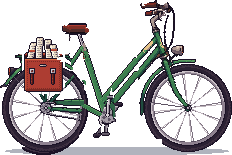
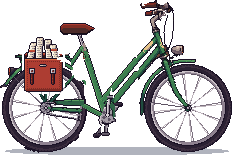
art(ui): sadel lebih panjang, kabel 1 px, ban bulat
Penilaian pemilik atas sepeda bengkel: sadel digambar utuh dengan hidung
6 px lebih panjang; kabel rem ditipiskan jadi 1 px supaya di versi kecil
tidak menggumpal; roda belakang digambar dari lingkaran terukur (bukan
elips yang menghasilkan cincin ganda di bawah), dan kiri bawah ban depan
yang ikut terhapus bersama sepatu diisi pantulan sisi kanannya.

Claude-Session: https://claude.ai/code/session_014pKAHN68ypreAvo6djoDqb

diff --git a/docs/design/redesain/kanvas/Bengkel_TataA.dc.html b/docs/design/redesain/kanvas/Bengkel_TataA.dc.html
@@ -39,7 +39,7 @@ body{margin:0}
 <section class="pnl layar ab" aria-label="Sepeda" style="left: 220px; top: 62px; width: 200px; height: 232px; padding: 4px">
 <div style="position: relative; height: 100%; overflow: hidden; background: #2A1E17; box-shadow: 0 0 0 1px #0E0A1C">
 <img src="/_blob/7cb89d9a8ad08057e730fa7585a0ad93" alt="" style="position: absolute; left: -84px; bottom: 0">
-<img src="/_blob/0351d78ef85ba2fd0e7d4b9da4e2e00c" alt="Sepeda loper" style="position: absolute; left: 34px; top: 132px">
+<img src="/_blob/6f2f3584f2de132d48054a6fcf5c2150" alt="Sepeda loper" style="position: absolute; left: 34px; top: 132px">
 <i style="position: absolute; left: 38px; top: 199px; width: 3px; height: 3px; background: #FF8A3D; box-shadow: 0 0 0 1px #0E0A1C"></i>
 <span class="chip kecil warn" style="position: absolute; left: 4px; top: 186px">! Ban</span>
 <i style="position: absolute; left: 107px; top: 136px; width: 3px; height: 3px; background: #FF8A3D; box-shadow: 0 0 0 1px #0E0A1C"></i>

diff --git a/docs/design/redesain/kanvas/Bengkel_TataB.dc.html b/docs/design/redesain/kanvas/Bengkel_TataB.dc.html
@@ -22,7 +22,7 @@ body{margin:0}
 <section class="pnl layar ab" aria-label="Sepeda" style="left: 12px; top: 46px; width: 280px; height: 170px; padding: 4px">
 <div style="position: relative; height: 100%; overflow: hidden; background: #2A1E17; box-shadow: 0 0 0 1px #0E0A1C">
 <img src="/_blob/7cb89d9a8ad08057e730fa7585a0ad93" alt="" style="position: absolute; left: -48px; bottom: 0">
-<img src="/_blob/0351d78ef85ba2fd0e7d4b9da4e2e00c" alt="Sepeda loper" style="position: absolute; left: 74px; top: 70px">
+<img src="/_blob/6f2f3584f2de132d48054a6fcf5c2150" alt="Sepeda loper" style="position: absolute; left: 74px; top: 70px">
 <i style="position: absolute; left: 78px; top: 137px; width: 3px; height: 3px; background: #FF8A3D; box-shadow: 0 0 0 1px #0E0A1C"></i>
 <span class="chip kecil warn" style="position: absolute; left: 42px; top: 130px">! Ban</span>
 <i style="position: absolute; left: 147px; top: 74px; width: 3px; height: 3px; background: #FF8A3D; box-shadow: 0 0 0 1px #0E0A1C"></i>

diff --git a/docs/design/redesain/kanvas/Bengkel.dc.html b/docs/design/redesain/kanvas/Bengkel.dc.html
@@ -27,7 +27,7 @@ body{margin:0}
 <div class="bag lbl" style="height: 12px">Servis</div>
 <div style="position: relative; height: {{sh}}px; overflow: hidden; background: #2A1E17; box-shadow: 0 0 0 1px #0E0A1C">
 <img src="/_blob/7cb89d9a8ad08057e730fa7585a0ad93" alt="" style="position: absolute; left: {{papanX}}px; bottom: 0">
-<img src="/_blob/0351d78ef85ba2fd0e7d4b9da4e2e00c" alt="Sepeda loper" style="position: absolute; left: {{bx}}px; top: {{by}}px">
+<img src="/_blob/6f2f3584f2de132d48054a6fcf5c2150" alt="Sepeda loper" style="position: absolute; left: {{bx}}px; top: {{by}}px">
 <sc-for list="{{penanda}}" as="m" hint-placeholder-count="2">
 <i style="position: absolute; left: {{m.dx}}px; top: {{m.dy}}px; width: 3px; height: 3px; background: {{m.warna}}; box-shadow: 0 0 0 1px #0E0A1C"></i>
 <span class="chip kecil {{m.cls}}" style="position: absolute; left: {{m.cx}}px; top: {{m.cy}}px">{{m.teks}}</span>

diff --git a/tools/ui_art/redesain/sepeda_fullbody.py b/tools/ui_art/redesain/sepeda_fullbody.py
@@ -6,10 +6,11 @@ sama dengan papan "Gambar AI baru jadi pixel art · versi 5" di kanvas "Karakter
 Langkah:
   1. tokoh dibuang: semua di atas y 108 (kepala, lengan, koran), warna kulit/kemeja/celana di kolom badan beserta
      garis luarnya yang gelap, sepatu, gantungan kunci, dan bayangan tanah lama
-  2. bagian sepeda yang tadinya tertutup tokoh digambar ulang HANYA di piksel yang dibuang (piksel asli tidak diubah):
-     sisi kanan roda belakang (profil radial dari bagian roda yang terlihat, jari-jari tiap 30 derajat), batang
+  2. bagian sepeda yang tadinya tertutup tokoh digambar ulang HANYA di piksel yang dibuang (piksel asli tidak diubah, kecuali sadel dan kabel di langkah 3):
+     sisi kanan roda belakang (profil radial yang diukur dari ban yang terlihat, lingkaran, jari-jari tiap 30 derajat), batang
      bawah (chainstay), seat stay, seat tube, dua pipa rangka step-through yang menerus dari potongan di kanan,
-     tiang dan sadel, gir depan, engkol dan pedal dua sisi; lalu garis luar #1B1226 di tepi bagian baru
+     tiang sadel, gir depan, engkol dan pedal dua sisi, kiri bawah roda depan (pantulan sisi kanan); lalu garis luar
+     #1B1226 di tepi bagian baru. Sadel digambar utuh dengan hidung lebih panjang, kabel rem ditipiskan jadi 1 px
   3. sisa piksel lepas dibuang, bayangan tanah baru (#2E3550 alpha 96, seperti gambar full body) di bawah roda
   4. dipotong ke kotak sepeda -> sepeda_besar.png (kepadatan gambar skala besar), lalu versi setengah
      sepeda_kecil.png (mode per blok 2x2, garis luar dirapikan) untuk panggung bengkel
@@ -44,7 +45,9 @@ KULIT = [(239, 164, 98), (220, 118, 69), (199, 103, 61), (218, 114, 68), (240, 1
 KEMEJA = [(132, 166, 186), (110, 138, 170), (101, 121, 158), (127, 158, 182), (109, 134, 167)]
 CELANA = [(44, 48, 79), (58, 66, 94), (84, 96, 142), (36, 34, 61), (35, 34, 63), (51, 57, 89), (83, 95, 141), (87, 99, 144)]
 
-RODA_BELAKANG = (46, 219, 41.5, 44)      # cx, cy, rx, ry (roda tampak sedikit lonjong)
+# roda: pusat dan jari-jari garis luar ban, diukur dari ban yang terlihat di gambar sumber (lingkaran, bukan elips)
+RODA_BELAKANG = (46.5, 221.5, 41.5)
+RODA_DEPAN = (190.5, 219.5, 43.5)
 JARI_SUDUT = [10 + 30 * i for i in range(12)]
 BB = (110, 232)                          # poros gir depan
 DUDUKAN = (86, 158)                      # pertemuan seat tube dan seat stay di bawah sadel
@@ -130,25 +133,60 @@ class Kuas:
                             break
 
 
+def warna_ban(x, y, cx, cy, R):
+    """Profil radial yang diukur dari ban sumber, d = jarak dari garis luar ke dalam:
+    garis luar, ban terang 2 px, ban gelap 3 px, garis, pelek 3 px (terang di kiri atas). None = di luar atau di dalam pelek."""
+    d = R - math.hypot(x - cx, y - cy)
+    if d < -0.5 or d > 9.5:
+        return None
+    if d <= 0.5:
+        return GARIS
+    if d <= 2.5:
+        return BAN[0]
+    if d <= 5.5:
+        return BAN[1]
+    if d <= 6.5:
+        return GARIS
+    if d <= 7.5 and (x - cx) + (y - cy) < 0:
+        return LOGAM[0]
+    return LOGAM[1]
+
+
 def roda_belakang(k):
-    cx, cy, rx, ry = RODA_BELAKANG
-    profil = [(0.80, None), (0.82, LOGAM[2]), (0.89, LOGAM[1]), (0.91, GARIS), (0.99, BAN[1]), (1.03, BAN[0]), (1.06, GARIS)]
-    for y in range(k.H):
-        for x in range(k.W):
-            r = math.hypot((x - cx) / rx, (y - cy) / ry)
-            for batas, c in profil:
-                if r < batas:
-                    if c is not None:
-                        k.titik(x, y, c)
-                    break
+    """Sisi kanan roda belakang (tertutup tokoh): ban dan pelek dari profil, jari-jari tiap 30 derajat."""
+    cx, cy, R = RODA_BELAKANG
+    for y in range(int(cy - R) - 1, int(cy + R) + 2):
+        for x in range(int(cx - R) - 1, int(cx + R) + 2):
+            c = warna_ban(x, y, cx, cy, R)
+            if c is not None:
+                k.titik(x, y, c)
     for a in JARI_SUDUT:
         t = math.radians(a)
-        for i in range(10, 81):
-            r = i / 100
-            x = cx + r * rx * math.cos(t)
-            y = cy + r * ry * math.sin(t)
-            k.titik(int(round(x)), int(round(y)), JARI[0], padat=False)
-            k.titik(int(round(x)), int(round(y)) + 1, JARI[1], padat=False)
+        for i in range(10, 79):
+            r = i / 100 * R
+            x = int(round(cx + r * math.cos(t)))
+            y = int(round(cy + r * math.sin(t)))
+            k.titik(x, y, JARI[0], padat=False)
+            k.titik(x, y + 1, JARI[1], padat=False)
+
+
+def roda_depan(k, asli):
+    """Kiri bawah roda depan ikut terhapus bersama sepatu: diisi pantulan mendatar sisi kanan bawah roda yang utuh
+    (tekstur ban dan jari-jari sama), atau profil ban bila pantulannya bukan warna roda."""
+    cx, cy, R = RODA_DEPAN
+    warna_roda = {GARIS, *BAN, *LOGAM, *JARI}
+    for y in range(int(cy), int(cy + R) + 2):
+        for x in range(int(cx - R) - 1, int(cx) + 1):
+            if not k.lubang[y, x] or math.hypot(x - cx, y - cy) > R + 0.5:
+                continue
+            xm = int(round(2 * cx - x))
+            c = tuple(int(v) for v in asli[y, xm, :3])
+            if asli[y, xm, 3] == 255 and not k.lubang[y, xm] and c in warna_roda:
+                k.titik(x, y, c, padat=c not in JARI)
+            else:
+                c = warna_ban(x, y, cx, cy, R)
+                if c is not None:
+                    k.titik(x, y, c)
 
 
 def rangka(k):
@@ -160,14 +198,59 @@ def rangka(k):
     k.pipa((86, 158), (82, 146), 2, LOGAM)          # tiang sadel
 
 
-def sadel(k, asli):
-    """Bagian tengah sadel: tiap baris diisi warna kolom kiri sadel yang masih terlihat (x 70)."""
-    for y in range(136, 147):
-        c = asli[y, 70]
-        if c[3] == 0:
-            continue
-        for x in range(72, 89):
-            k.titik(x, y, tuple(int(v) for v in c[:3]))
+SADEL_WARNA = [(173, 61, 50), (128, 46, 37), (76, 43, 41), (23, 13, 20)]   # sorot, kulit, sisi, bawah (dari sadel sumber)
+SADEL_X = (64, 97)          # ekor kiri sampai hidung kanan; hidung 6 px lebih panjang dari sadel sumber yang terpotong tokoh
+SADEL_Y = (136, 145)        # tepi atas dan bawah bagian lebar
+
+
+def sadel(img):
+    """Sadel digambar utuh (menimpa sadel sumber yang separuhnya tertutup tokoh): ekor membulat di kiri, hidung
+    menyempit dan sedikit turun di kanan, sorot di baris atas, sisi lebih gelap, bawah hampir hitam, garis luar."""
+    x0, x1 = SADEL_X
+    y0, y1 = SADEL_Y
+    img[y0 - 3:y1 + 2, x0 - 2:x1 + 3] = 0
+    isi = {}
+    for x in range(x0, x1 + 1):
+        atas, bawah = y0, y1
+        if x - x0 < 2:                       # ekor membulat
+            atas, bawah = y0 + 2 - (x - x0), y1 - 2 + (x - x0)
+        hidung = x - (x1 - 9)
+        if hidung > 0:                       # hidung: atas turun, bawah naik
+            atas = y0 + (hidung + 1) // 2
+            bawah = y1 - (hidung * 2) // 3
+        for y in range(atas, bawah + 1):
+            i = y - atas
+            c = SADEL_WARNA[0] if i == 0 else SADEL_WARNA[3] if y == bawah else SADEL_WARNA[1] if i <= 3 else SADEL_WARNA[2]
+            isi[(x, y)] = c
+    for (x, y), c in isi.items():
+        img[y, x] = (*c, 255)
+    for (x, y) in list(isi):
+        for dx, dy in ((1, 0), (-1, 0), (0, 1), (0, -1)):
+            if (x + dx, y + dy) not in isi and img[y + dy, x + dx, 3] == 0:
+                img[y + dy, x + dx] = (*GARIS, 255)
+    # garis gelap sisa kaki tokoh di bawah ekor sadel
+    img[y1 + 1:y1 + 8, 71:74] = 0
+
+
+KABEL = (160, 121, 186, 200)   # kotak kabel rem dan lampu (x0, y0, x1, y1) di gambar sumber
+
+
+def tipiskan_kabel(img):
+    """Kabel sumber 2-3 px; di kotak kabel, deret mendatar piksel gelap yang diapit piksel kosong di kedua sisi
+    disisakan satu piksel (kiri), supaya kabel 1 px dan di versi setengah tetap garis tipis tanpa garis luar."""
+    x0, y0, x1, y1 = KABEL
+    gelap = (img[..., 3] == 255) & (img[..., :3].astype(int).mean(-1) < 60)
+    for y in range(y0, y1):
+        x = x0
+        while x < x1:
+            if gelap[y, x] and img[y, x - 1, 3] == 0:
+                e = x
+                while e < x1 and gelap[y, e]:
+                    e += 1
+                if 2 <= e - x <= 3 and img[y, e, 3] == 0:
+                    img[y, x + 1:e] = 0
+                x = e
+            x += 1
 
 
 def gir_dan_engkol(k):
@@ -281,10 +364,12 @@ def main():
     img, lubang = buang_tokoh(asli)
     k = Kuas(img, lubang)
     roda_belakang(k)
+    roda_depan(k, asli)
     rangka(k)
-    sadel(k, asli)
     gir_dan_engkol(k)
     k.garis_luar()
+    sadel(k.img)
+    tipiskan_kabel(k.img)
     img = rapikan_lepas(k.img)
     img = bayangan(img)
     besar, (x0, y0) = potong(img)

diff --git a/docs/design/redesain/README.md b/docs/design/redesain/README.md
@@ -75,11 +75,11 @@ k-means dan inpaint memakai pustaka numerik, jadi menjalankan ulang skrip di mes
 
 ## 5b. Sepeda bengkel
 
-Sepeda di panggung bengkel diambil dari gambar full body pemain (`docs/design/character/loper_agen/loper_agen_fullbody.png`, sama dengan artboard "Gambar AI baru jadi pixel art · versi 5" di artefak Design "Karakter Loper Koran"), atas permintaan pemilik 2026-10-23. Skrip `tools/ui_art/redesain/sepeda_fullbody.py` membuang tokoh (warna tubuh, garis luar gelap di sekitarnya, sepatu, kunci, bayangan lama), lalu menggambar ulang bagian sepeda yang tadinya tertutup tubuh hanya di piksel yang kosong: roda belakang dari profil elips radial dengan jari-jari tiap 30°, tabung rangka step-through, tabung sadel, sadel, gir dan engkol. Semua warna diambil dari palet gambar full body (diuji), garis luar `#1B1226` seperti gambar skala besar. Bayangan baru elips datar.
+Sepeda di panggung bengkel diambil dari gambar full body pemain (`docs/design/character/loper_agen/loper_agen_fullbody.png`, sama dengan artboard "Gambar AI baru jadi pixel art · versi 5" di artefak Design "Karakter Loper Koran"), atas permintaan pemilik 2026-10-23. Skrip `tools/ui_art/redesain/sepeda_fullbody.py` membuang tokoh (warna tubuh, garis luar gelap di sekitarnya, sepatu, kunci, bayangan lama), lalu menggambar ulang bagian sepeda yang tadinya tertutup tubuh hanya di piksel yang kosong: roda belakang dari profil radial yang diukur dari ban yang terlihat (lingkaran, jari-jari tiap 30°), kiri bawah ban depan (ikut terhapus bersama sepatu) dari pantulan sisi kanannya, tabung rangka step-through, tabung sadel, gir dan engkol. Sadel digambar utuh dengan hidung 6 px lebih panjang dari sadel sumber (yang separuhnya tertutup tokoh), dan kabel rem ditipiskan dari 2–3 px jadi 1 px supaya di versi kecil tetap garis tipis (penilaian pemilik 2026-10-23). Semua warna diambil dari palet gambar full body (diuji), garis luar `#1B1226` seperti gambar skala besar. Bayangan baru elips datar.
 
 `sepeda_besar.png` (232×155) adalah potongan 1×; `sepeda_kecil.png` (116×78) dibuat dengan blok 2×2 (blok penuh = warna terbanyak, garis tipis dan jari-jari = warna paling terang, garis luar hanya di sekeliling blok penuh) dan dipakai di kanvas, dekat ukuran sepeda prosedural lama 124×72. Titik penanda kondisi di `sepeda.json` (`titik_kecil`: ban, rem, rantai). Keluaran deterministik (tanpa pustaka acak), jadi uji memeriksa kecocokan piksel.
 
-Yang masih terlihat bila diamati: beberapa piksel krem dan hijau sisa di dekat tabung, dan setang di versi kecil agak menggumpal. Kepadatan detailnya juga lebih tinggi dari ikon 24 di sebelahnya; dinilai di HP.
+Yang masih terlihat bila diamati: beberapa piksel krem dan hijau sisa di dekat tabung. Kepadatan detailnya juga lebih tinggi dari ikon 24 di sebelahnya; dinilai di HP.
 
 ## 6. Urutan porting yang disarankan
 
@@ -103,9 +103,9 @@ Yang masih terlihat bila diamati: beberapa piksel krem dan hijau sisa di dekat t
 | `/_blob/98684303037eba551a7f7796438e9a19`, `df48d4009ee5bbb88103f90cb3703898`, `e830964809efbba3c566642bd9bdb0a0`, `87dc67e5338052466bc1aac551111379`, `81d789adb2123fb01971957f3f73f0fc` | `koran_kotak`, `koran_btn_tinta`, `koran_btn_tinta_tekan`, `koran_btn_tipis`, `koran_btn_terpilih` |
 | `/_blob/6ff6449167533e37b1201340a06e5e4e`, `2f6d4018a9ca280cd6dbf775e4ec204c`, `afbc131fc226ae494a5183644dccca52`, `c493d6bcb490bfaa6028c5c5ec03fd70` | `struk`, `struk_takik`, `arsir_nonaktif`, `kertas_tile` |
 | `/_blob/372c7f38efe88500b9954cf865bfb34b`, `a8fc11bcff0402de83219ac569df5491`, `6331f06c70ca2aa3a6a6e552dfe9ad79` | `ikon24`, `lencana32`, `glif12` |
-| `/_blob/0351d78ef85ba2fd0e7d4b9da4e2e00c`, `7cb89d9a8ad08057e730fa7585a0ad93`, `7474ef878735646d976d01349198b272`, `a31678716a113eab1149137657ce2e0a` | `sepeda_kecil`, `papan_alat`, `foto_jalan`, `foto_lampu` |
+| `/_blob/6f2f3584f2de132d48054a6fcf5c2150`, `7cb89d9a8ad08057e730fa7585a0ad93`, `7474ef878735646d976d01349198b272`, `a31678716a113eab1149137657ce2e0a` | `sepeda_kecil`, `papan_alat`, `foto_jalan`, `foto_lampu` |
 | `/_blob/0394a12fbc917b33a44355e7ebdde963` | `latar_bengkel/bengkel_latar_800.png` |
 | `/_blob/f69c513708dab5417f72e6f09771d7b4` | Tangkapan layar jalan run 5B diperkecil ke 640×360 (`docs/loop/20261021-fase5b-tembok-dekor/shots/iter1/1920x1080_dekat_dekor_jalur_utama.png`), latar papan Jeda, Tutorial, Banner, HUD |
 | `/_blob/1b8c69138f32cb9445bfef455e4dad11`, `e03f1bcfd5e463815d1be2eab707a584`, `8accfd5abc85c093f7ac098be585e921`, `972e215ef8cce3d49f3b1dbb217faafd`, `ae731af7a3e15ce2c89612c2e528318f`, `95fa34e99a2063540cf39d946e534094`, `97b23399af47af9a6ee68826f41c12bb` | `assets/sprites/ui/ui_icon_{koin,reputasi,ban,rem,rantai,misi_kucing}.png`, `ui_bel_tombol.png` (yang sudah ada) |
 
-Unggahan lama yang tidak dirujuk lagi: `f5c80e40e3992d10089aad6bc5490d1b` (`ui.css` versi pertama, teks tombol 16 px karena `font: inherit`), `69ef450186d7982468ce4c6f54fe2fa0` (latar bengkel prosedural sebelum latar konversi), `81d52c510b5d1bc715675a17de150433` (papan alat 236 lebar), `af3437483605c4f53214bb9555dbab9e` (sepeda tampak samping prosedural 124×72 sebelum sepeda dari gambar full body).
+Unggahan lama yang tidak dirujuk lagi: `f5c80e40e3992d10089aad6bc5490d1b` (`ui.css` versi pertama, teks tombol 16 px karena `font: inherit`), `69ef450186d7982468ce4c6f54fe2fa0` (latar bengkel prosedural sebelum latar konversi), `81d52c510b5d1bc715675a17de150433` (papan alat 236 lebar), `af3437483605c4f53214bb9555dbab9e` (sepeda tampak samping prosedural 124×72 sebelum sepeda dari gambar full body), `0351d78ef85ba2fd0e7d4b9da4e2e00c` (sepeda full body pertama: sadel pendek, kabel 2 px, ban belakang lonjong dan kiri bawah ban depan terpotong).
